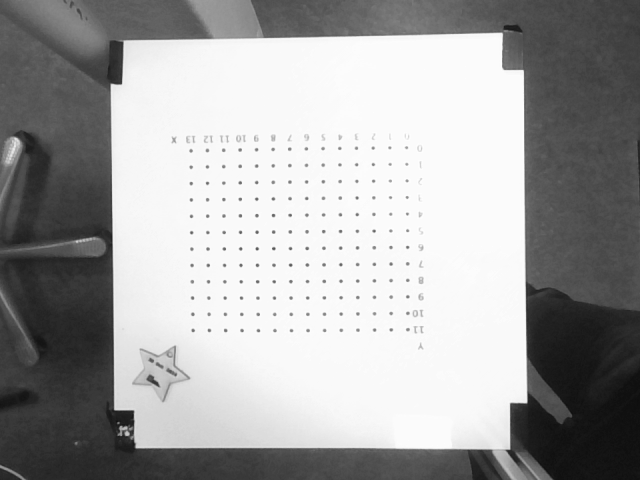
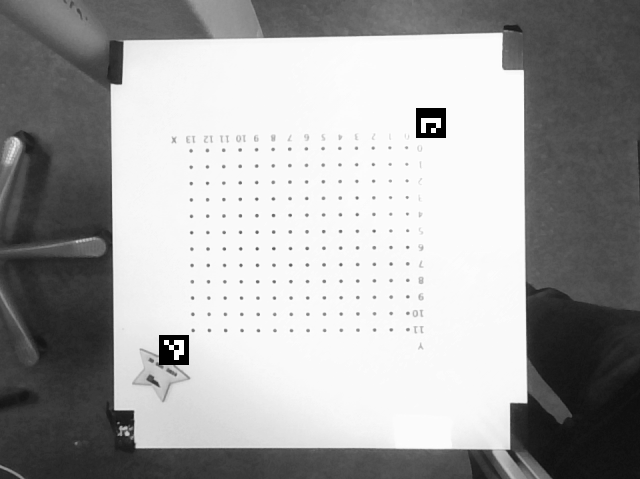
almost works

diff --git a/camera.py b/camera.py
@@ -1,7 +1,10 @@
 import cv2
 import numpy as np
+from cv2 import aruco
 from sklearn.neighbors import KDTree
-from sklearn.neighbors import NearestNeighbors
+
+BOT_LEFT_ARUCO_ID = 0
+TOP_RIGHT_ARUCO_ID = 1
 
 
 class Camera:
@@ -15,18 +18,27 @@ class Camera:
         raise RuntimeError("Could not capture image")
 
     def otsu_thresh(self):
-        image = cv2.imread("Board.png")
+        image = cv2.imread("Board_w_aruco.png")
+
+        aruco_corners, ids, rejectedImgPoints = aruco.detectMarkers(
+            image, aruco.getPredefinedDictionary(aruco.DICT_4X4_100)
+        )
+
+        ids = ids.reshape((ids.shape[0],))
+        # four corners returned in their original order (which is clockwise starting with top left)
+        ids_to_corners = dict(zip(ids, aruco_corners))
+
         grey = cv2.cvtColor(image, cv2.COLOR_BGR2GRAY)
         cv2.imwrite("DEBUG-grey.png", grey)
 
-        gauss = cv2.GaussianBlur(grey,(5,5),0)
+        gauss = cv2.GaussianBlur(grey, (5, 5), 0)
         cv2.imwrite("DEBUG-gauss.png", gauss)
 
         _, thresh = cv2.threshold(gauss, 200, 255, cv2.THRESH_BINARY)
         cv2.imwrite("DEBUG-thresh.png", thresh)
         cnts, _ = cv2.findContours(thresh, cv2.RETR_LIST, cv2.CHAIN_APPROX_SIMPLE)
-        cimg = cv2.drawContours(image, cnts,-1, (120,20,20),3)
-        cv2.imwrite("DEBUG-cont.png", cimg)
+        # cimg = cv2.drawContours(image, cnts,-1, (120,20,20),3)
+        # cv2.imwrite("DEBUG-cont.png", cimg)
 
         centers = []
 
@@ -34,29 +46,20 @@ class Camera:
             M = cv2.moments(c)
             cX = int(M["m10"] / M["m00"]) if M["m00"] != 0 else 0
             cY = int(M["m01"] / M["m00"]) if M["m00"] != 0 else 0
-            
-            centers.append((cX,cY))
-
-        tree = KDTree(centers)
-
-        refined_centers = set()
+            if (
+                cX > ids_to_corners[BOT_LEFT_ARUCO_ID][0][1][0]  # top right corner x
+                and cY < ids_to_corners[BOT_LEFT_ARUCO_ID][0][1][1]  # top right corner y
+                and cX < ids_to_corners[TOP_RIGHT_ARUCO_ID][0][3][0]  # bottom left corner x
+                and cY > ids_to_corners[TOP_RIGHT_ARUCO_ID][0][3][1] + 2  # bottom left corner y
+            ):
+                centers.append((cX, cY))
 
         for center in centers:
-            for idx_arr in tree.query_radius([center], r=20):
-                if len(idx_arr) > 3:
-                    for idx in idx_arr:
-                        refined_centers.add(centers[idx])
+            cv2.circle(image, center, 5, (20, 120, 20))
 
-        for center in refined_centers:
-            image = cv2.circle(image, center, 5, (20,120,20))
-
-        cv2.imshow("lol",image)
-        cv2.waitKey(0)
-
+        cv2.imwrite("result.png", image)
 
         
-
-
 
 
 cam = Camera()
